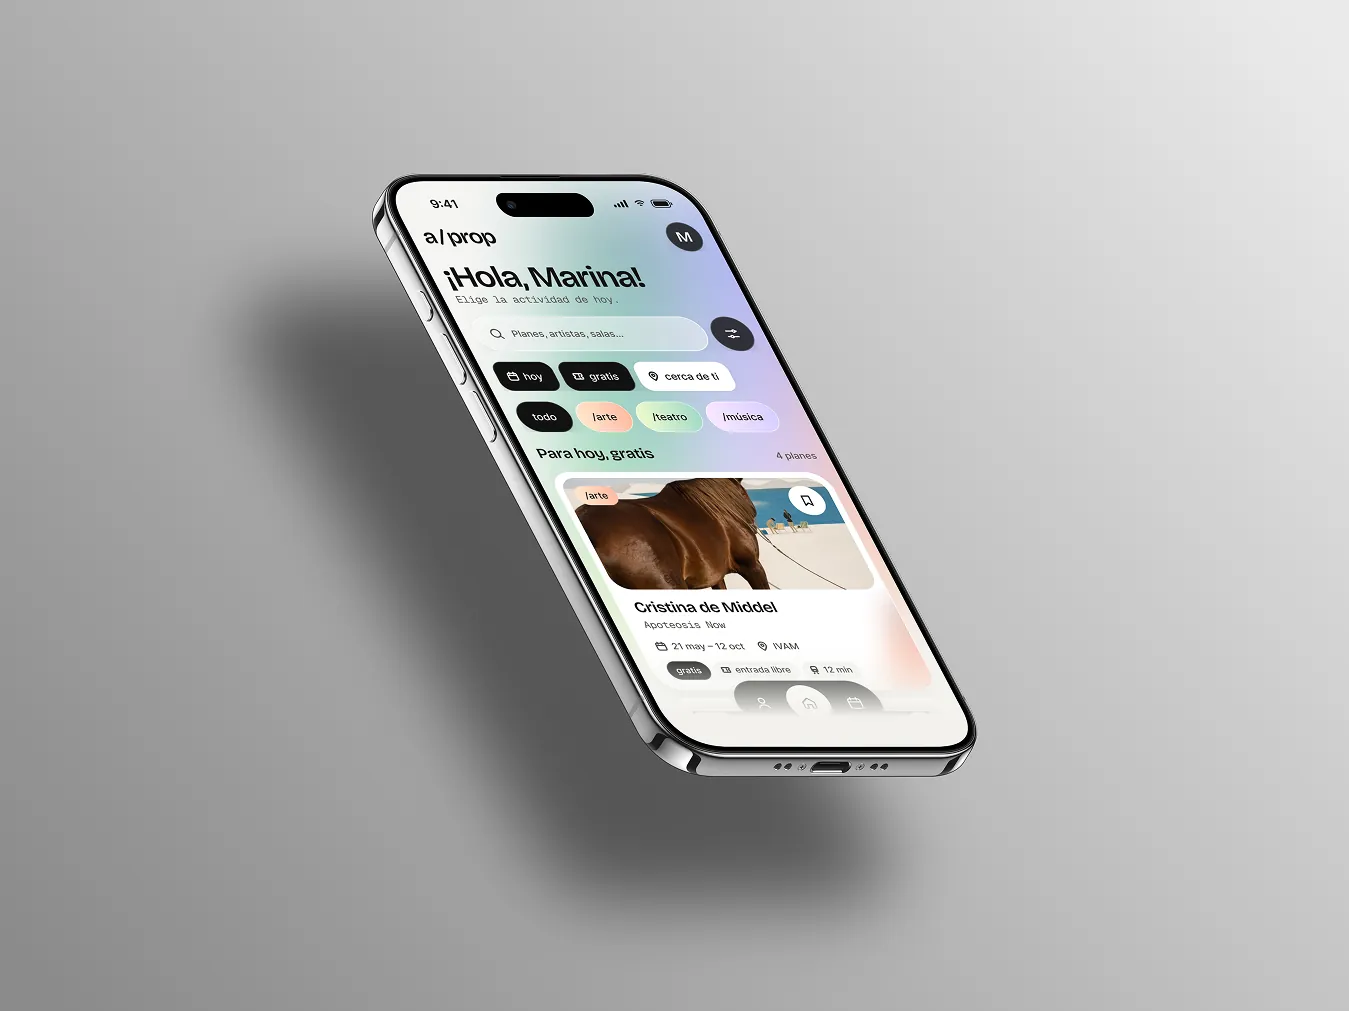
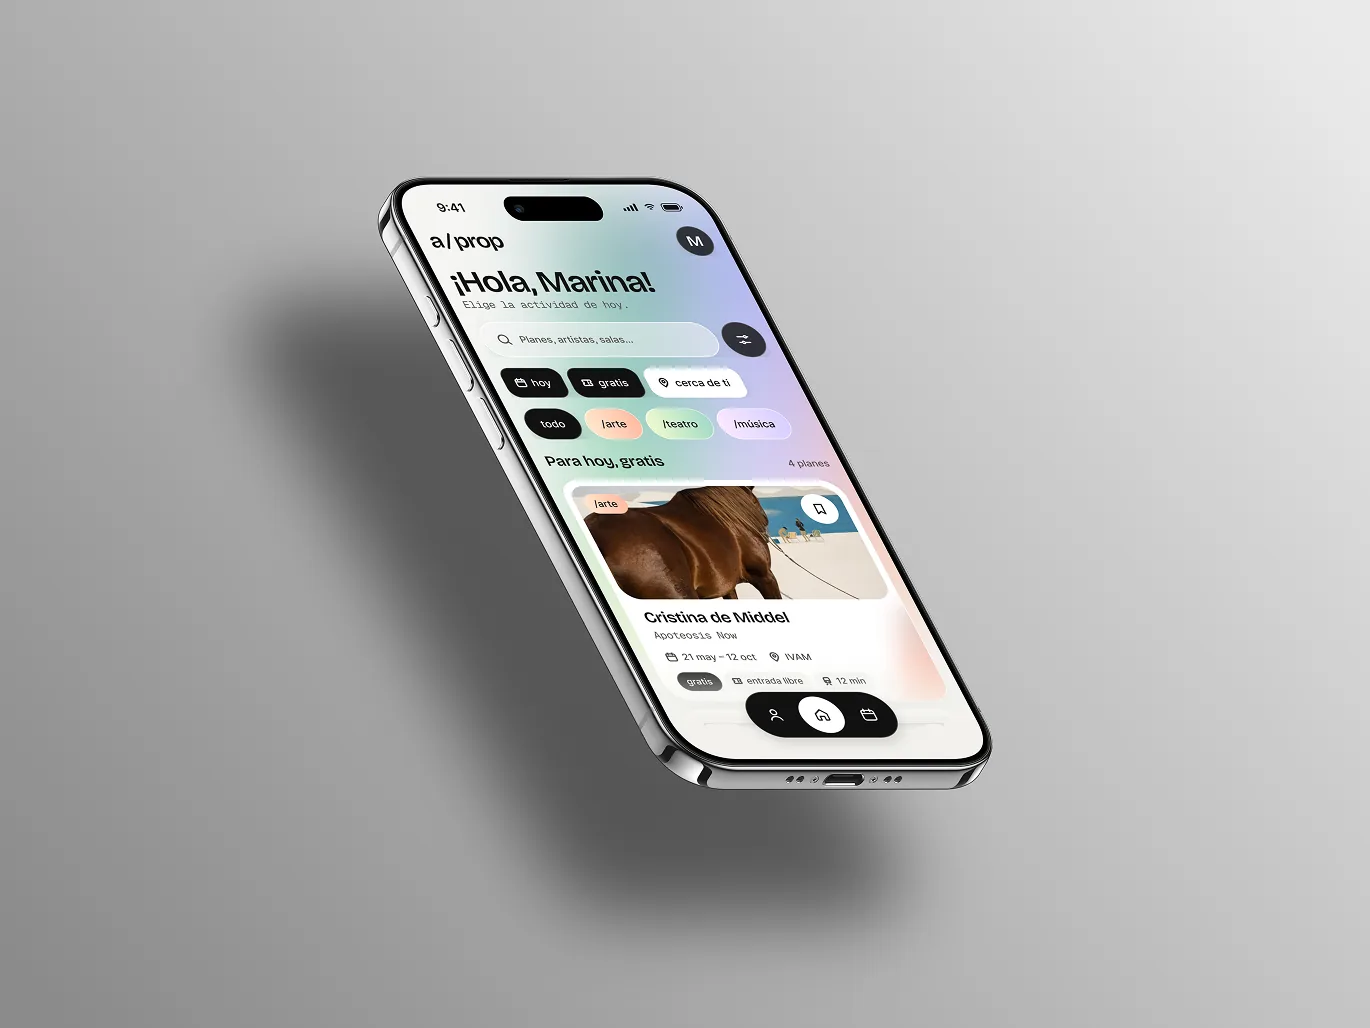
srodmol: Actualización de textos e imágenes

diff --git a/src/pages/home/Home.vue b/src/pages/home/Home.vue
@@ -101,8 +101,7 @@ const imagenesRastro = proyectos.flatMap((p) =>
         </div>
         <figcaption class="text-[17px] leading-snug text-muted-foreground">
           <strong class="font-semibold text-foreground">“{{ proyectoActivo.titulo }}”</strong><br />
-          {{ proyectoActivo.anio }}<br />
-          {{ proyectoActivo.descripcion }}
+          {{ proyectoActivo.anio }}
         </figcaption>
       </figure>
     </div>

diff --git a/README.md b/README.md
@@ -1,7 +1,78 @@
 # Proyecto transversal
+# Portfolio web — Sara Rodríguez Molina
+
+Portfolio personal de diseño gráfico, editorial y UX/UI, desarrollado para la asignatura **Apps y Arte Multimedia** (Grado en Bellas Artes, UPV).
+
+La web traslada al formato digital el diseño limpio y editorial de mi portfolio en PDF: mucho espacio en blanco, líneas finas como separadores y la tipografía como protagonista. Sobre esa base añade interacciones que solo tienen sentido en pantalla.
+
+## Páginas
+
+- **Inicio:** mi nombre a gran tamaño, con un rastro de imágenes de los proyectos que sigue al ratón, y una lista de proyectos seleccionados con vista previa al pasar el cursor. En móvil, las imágenes aparecen al hacer scroll.
+- **Proyectos:** cuadrícula de proyectos con filtros por categoría.
+- **Ficha de proyecto:** galería de imágenes, descripción, colaboradores y enlace al siguiente proyecto.
+- **Sobre mí:** statement, biografía y CV organizado en pestañas.
+- **Contacto:** datos de contacto y botón para copiar el email.
+
+Incluye modo claro y oscuro, menú adaptado a móvil y un título de pestaña distinto en cada página.
+
+## Tecnologías
+
+- **Vue 3** con **TypeScript** y `<script setup>`
+- **Vite**
+- **Tailwind CSS v4**
+- **Vue Router**
+- **shadcn-vue** (Button, Tabs, Sheet)
+- **Lucide** para los iconos
+
+No se usa ninguna otra librería ni framework de terceros.
+
+## Cómo se cumplen los requisitos
+
+| Requisito | Dónde |
+|---|---|
+| Imágenes a 72 ppp optimizadas | `public/img/` — WebP a 72 ppp, máximo 2000 px para pantallas Retina |
+| Responsive con Flexbox y Grid | En todas las páginas; cuadrículas con `auto-fill` y tipografía con `clamp()` |
+| Tailwind (más del 50 % de los estilos) | Prácticamente todo el estilo; CSS propio solo para variables de color, fuentes y la animación del rastro |
+| Componentes de shadcn-vue | `Button` (filtros, galería, contacto, tema), `Tabs` (CV), `Sheet` (menú móvil) |
+| Iconos de Lucide | Flechas, menú, sol/luna, copiar, Instagram |
+| Vue Router declarativo con rutas anidadas | `src/router/index.ts`: `/proyectos` contiene `/proyectos/:slug` |
+| Datos embebidos | `src/data/proyectos.ts` y `src/data/perfil.ts` |
+| Eventos | Hover y foco en la lista, clics en filtros y galería, `mousemove` en el rastro, copiar email |
+| Reactividad y directivas | `ref`, `computed`, `watch`, `v-for`, `v-if`, `v-model`, `:class`, `:style` |
+| Componentes propios | `CabeceraWeb`, `PieWeb`, `TarjetaProyecto`, `GaleriaProyecto`, `RastroImagenes` |
+| Composables | `useFiltroProyectos`, `useCopiar`, `useTema`, `useAparecerAlLlegar` |
+
+## Estructura
+
+```
+src/
+├─ components/     Componentes propios
+│  └─ ui/          Componentes de shadcn-vue
+├─ composables/    Lógica reutilizable (use…)
+├─ data/           Contenido de la web
+├─ lib/            Utilidades (cn)
+├─ pages/          Una carpeta por sección
+├─ router/         Rutas
+└─ style.css       Tailwind, colores y fuentes
+public/
+└─ img/            Imágenes optimizadas
+```
+
+## Comandos
+
+- `npm install`: instala todas las dependencias listadas en `package.json`.
+- `npm run dev`: arranca el servidor de desarrollo en `http://localhost:5173`.
+- `npm run build`: genera la versión final en la carpeta `dist`.
+
+## Autora
+
+**Sara Rodríguez Molina** — Valencia, 2026
+saraa.rodriguezmolina@gmail.com
+
 
 ## Comandos principales
 
 - `npm install`: Instala todas las dependencias necesarias que están listadas en `package.json`.
 
 - `npm run dev`: Ejecuta el servidor de desarrollo, permitiendo ver y probar la aplicación en modo interactivo en local.
+
